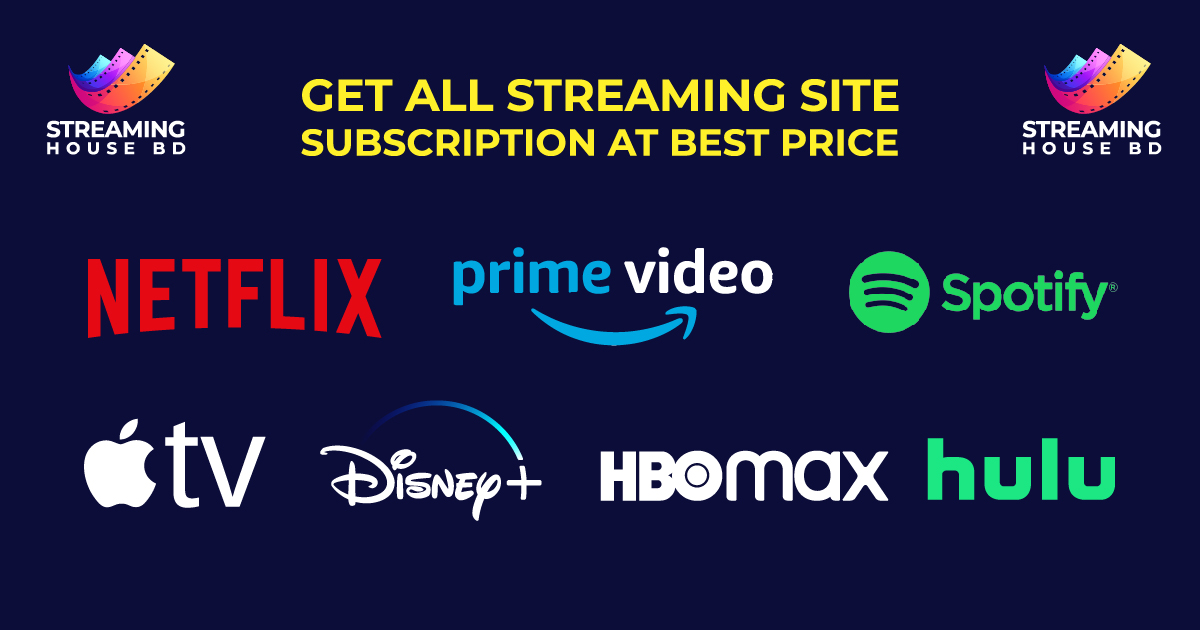
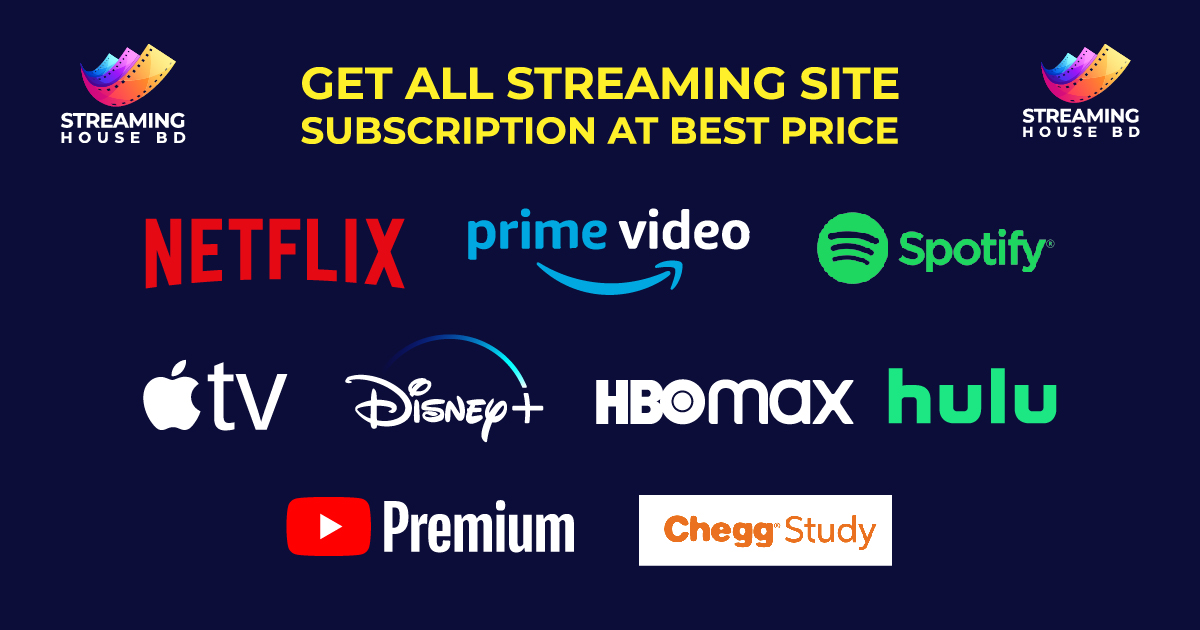
14th Commit - 11th August 2021

diff --git a/index.html b/index.html
@@ -5,7 +5,7 @@
     <meta property="og:url" content="https://streaminghousebd.github.io/shbd/index.html">
     <meta property="og:type" content="article">
     <meta property="og:title" content="Streaming House BD">
-    <meta property="og:description" content="Get Your Personal Netflix, Amazon Prime Video, YouTUbe Premium, Chegg, Spotify, Disney Plus at the lowest price from us.">
+    <meta property="og:description" content="Get Your Personal Netflix, Amazon Prime Video, Spotify, Disney Plus at the lowest price from us.">
     <meta property="og:image" content="https://mdkamrulislam-web.github.io/StreamingHouseBD/images/preview.jpg">
     <meta name="description" charset="utf-8" content="Get Your Personal Netflix, Amazon Prime Video, YouTUbe Premium, Chegg, Spotify, Disney Plus at the lowest price from us.">
 
@@ -137,9 +137,6 @@
           </div>
           <div class="carousel-item">
             <iframe class="ifram-item" src="https://www.facebook.com/plugins/post.php?href=https%3A%2F%2Fwww.facebook.com%2Fplabon.gomes.5%2Fposts%2F3097334200394035&show_text=true&width=500" width="500" height="168" style="border:none;overflow:hidden" scrolling="no" frameborder="0" allowfullscreen="true" allow="autoplay; clipboard-write; encrypted-media; picture-in-picture; web-share"></iframe>
-          </div>
-          <div class="carousel-item">
-            <iframe class="ifram-item" src="https://www.facebook.com/plugins/post.php?href=https%3A%2F%2Fwww.facebook.com%2Fabdulmueez%2Fposts%2F10218781314549142&show_text=true&width=500" width="500" height="158" style="border:none;overflow:hidden" scrolling="no" frameborder="0" allowfullscreen="true" allow="autoplay; clipboard-write; encrypted-media; picture-in-picture; web-share"></iframe>
           </div>
           <div class="carousel-item">
             <iframe class="ifram-item" src="https://www.facebook.com/plugins/post.php?href=https%3A%2F%2Fwww.facebook.com%2Frashedul11%2Fposts%2F3797290963623305&show_text=true&width=500" width="500" height="185" style="border:none;overflow:hidden" scrolling="no" frameborder="0" allowfullscreen="true" allow="autoplay; clipboard-write; encrypted-media; picture-in-picture; web-share"></iframe>

diff --git a/css/styles.css b/css/styles.css
@@ -78,12 +78,12 @@ h3{
 .you-img{
   padding-top: 5%;
   padding-right: 5%;
-  width: 20%;
+  width: 22.5%;
 }
 
 .chegg-img{
   padding-top: 5%;
-  width: 25%;
+  width: 27.5%;
 }
 
 .brands{
@@ -278,7 +278,7 @@ h3{
 }
 
 /* Media Queries */
-@@media (max-width:1028px) {
+@media (max-width:1028px) {
   #title{
     text-align: center;
   }
